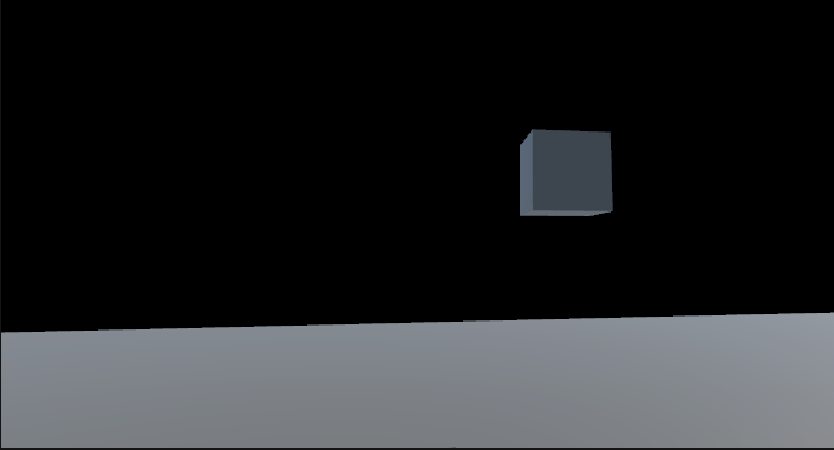
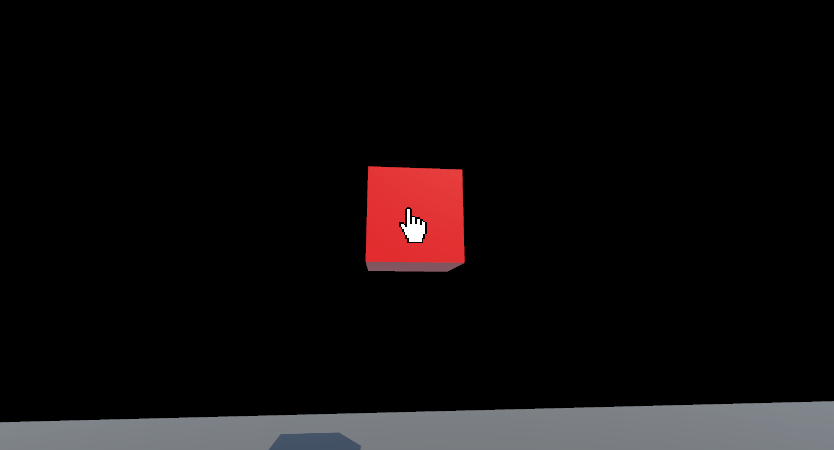
Fixed bug

diff --git a/Assets/Scripts/HG_scripts/ScreenshotHandler.cs b/Assets/Scripts/HG_scripts/ScreenshotHandler.cs
@@ -15,12 +15,15 @@ public class ScreenshotHandler : MonoBehaviour
         _cam = transform.GetComponent<Camera>();
     }
 
+    WaitForEndOfFrame _frameEnd = new WaitForEndOfFrame();
+
     //This is where the screenshot and saving actually occur
-    private void OnPostRender()
+    private IEnumerator OnPostRender()
     {
 
         if (_shouldScreenShot)
         {
+            yield return _frameEnd;
             _shouldScreenShot = false;
             RenderTexture _render = _cam.targetTexture;
 
@@ -45,7 +48,7 @@ public class ScreenshotHandler : MonoBehaviour
     {
         _cam.targetTexture = RenderTexture.GetTemporary(_width, _height, 16);
         _shouldScreenShot = true;
-        OnPostRender();
+        StartCoroutine(OnPostRender());
     }
 
     //This is the function that we call from other scripts!
